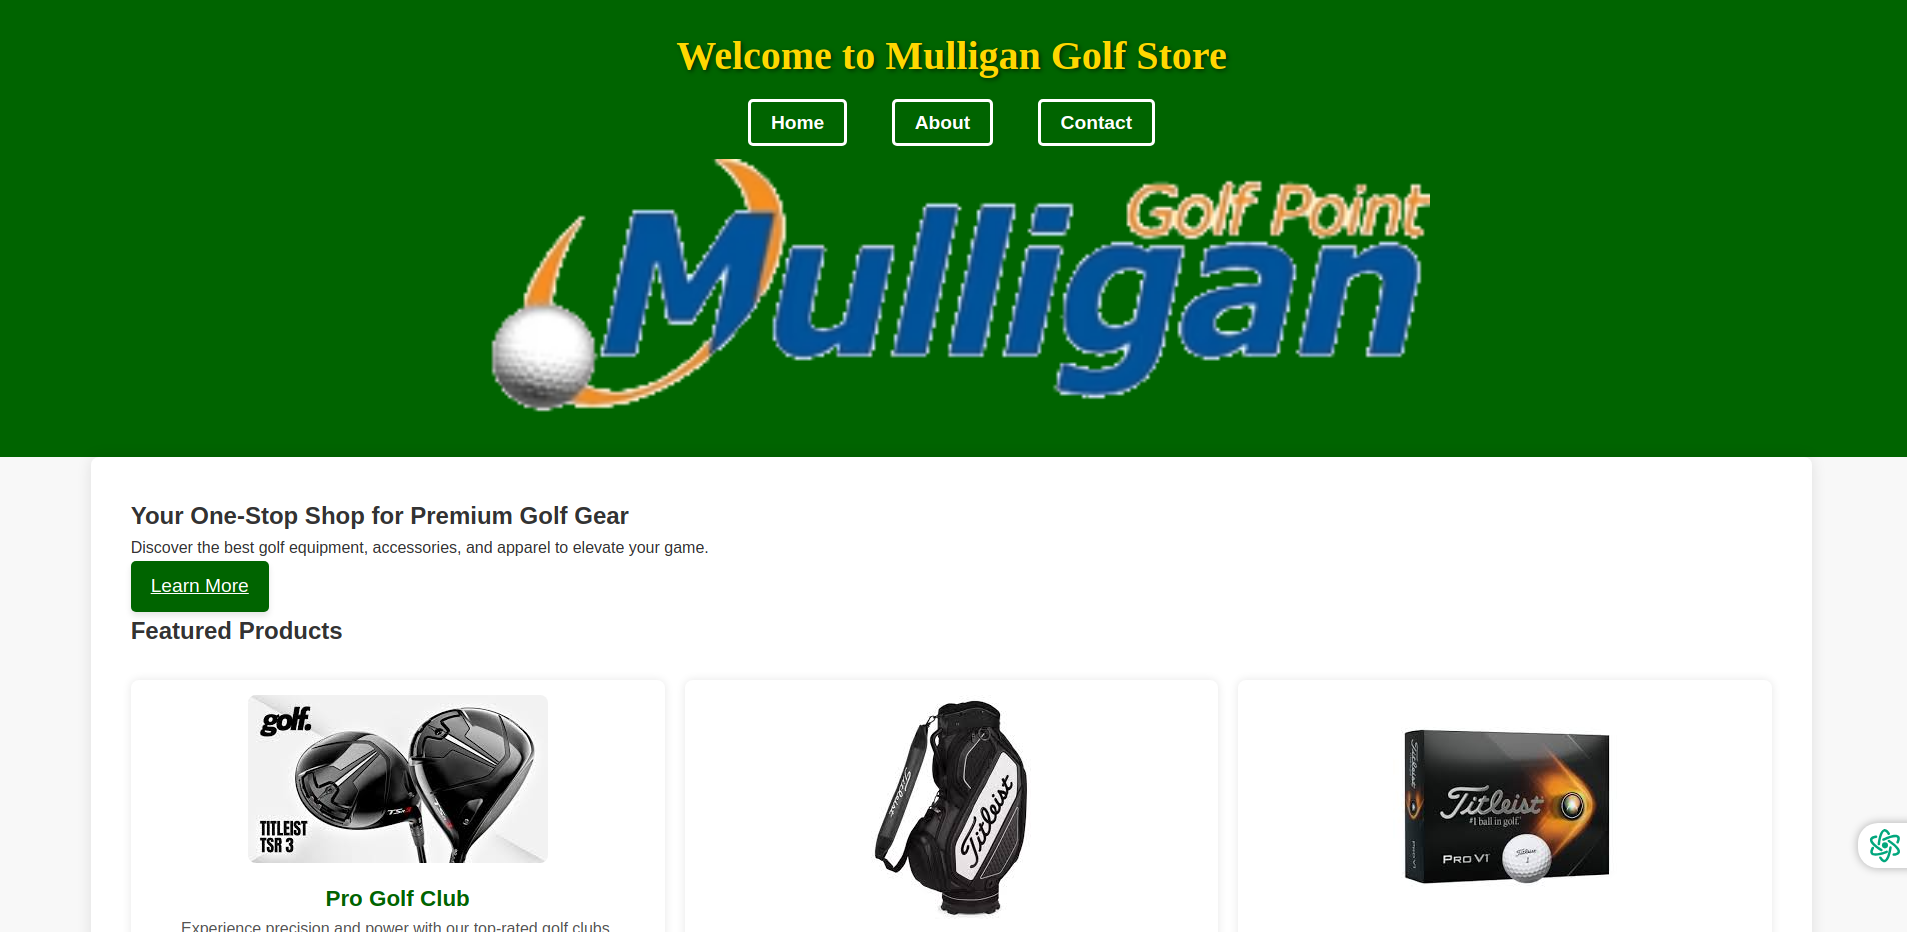
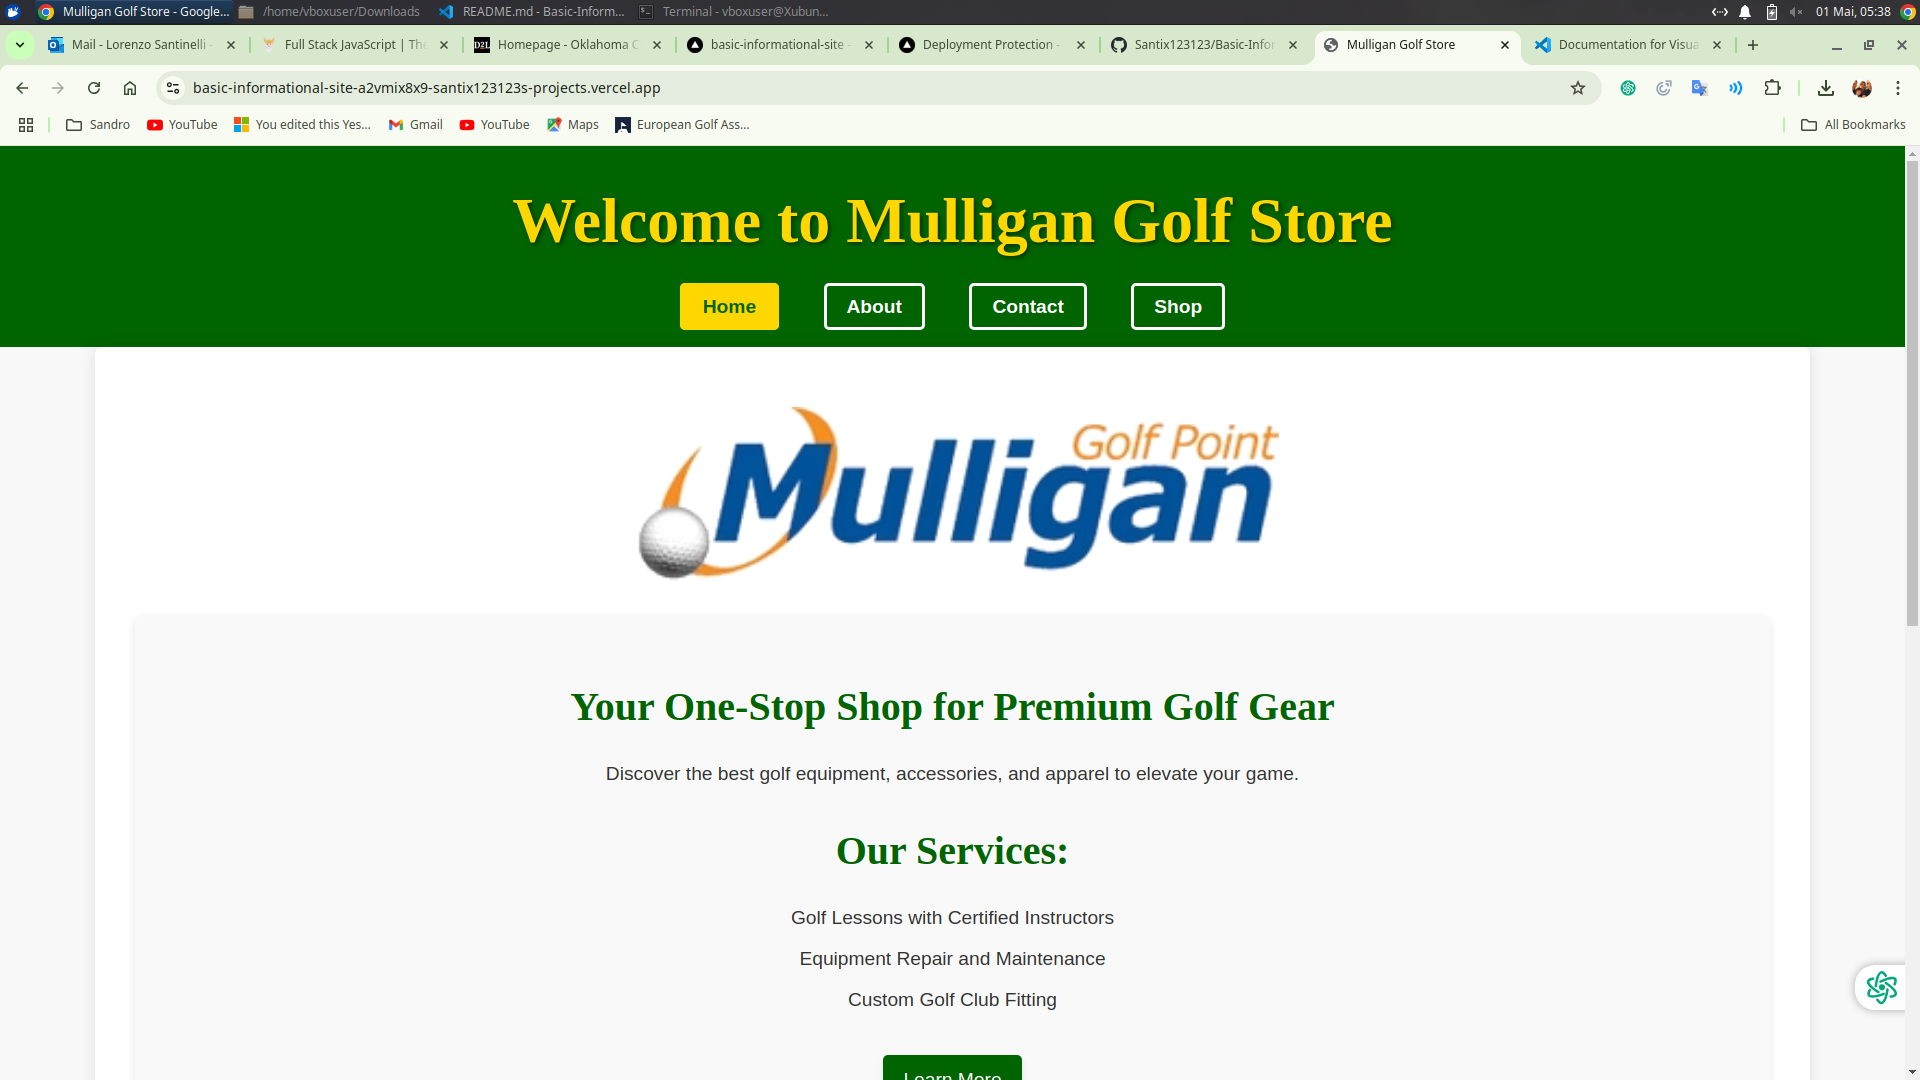
Implemented new screenshots!

diff --git a/README.md b/README.md
@@ -4,16 +4,28 @@ Welcome to the **Mulligan Golf Store** website! This project is a professional i
 
 ---
 
-## 📸 Screenshots (New screenshots not uploaded yet).
+## 📸 Screenshots (New screenshots added)
 
 ### Home Page
-![Home Page Screenshot](images/Screenshots/Screenshot_2025-04-03_23-55-29.png)
+![Home Page Screenshot](images/Screenshots/home-page.png)
 
 ### About Page
-![About Page Screenshot](images/Screenshots/Screenshot_2025-04-03_23-57-49.png)
+![About Page Screenshot](images/Screenshots/about-page.png)
 
 ### Contact Page
-![Contact Page Screenshot](images/Screenshots/Screenshot_2025-04-03_23-58-43.png)
+![Contact Page Screenshot](images/Screenshots/contact-page.png)
+
+### Login Page
+![Login Page Screenshot](images/Screenshots/login-page.png)
+
+### Sign Me Up Page
+![Sign Me Up Page Screenshot](images/Screenshots/sign-me-up-page.png)
+
+### Shop Page
+![Shop Page Screenshot](images/Screenshots/shop-page.png)
+
+### Shopping Cart Page
+![Shopping Cart Page Screenshot](images/Screenshots/shopping-cart-page.png)
 
 ---
 
@@ -107,3 +119,4 @@ Welcome to the **Mulligan Golf Store** website! This project is a professional i
 ## 🌐 Live Demo
 
 Check out the live demo here: [Mulligan Golf Store](https://b12d655d-274d-4944-80a8-a9982517d8cc-00-2qgv8861tjzqz.worf.replit.dev/)
+````
